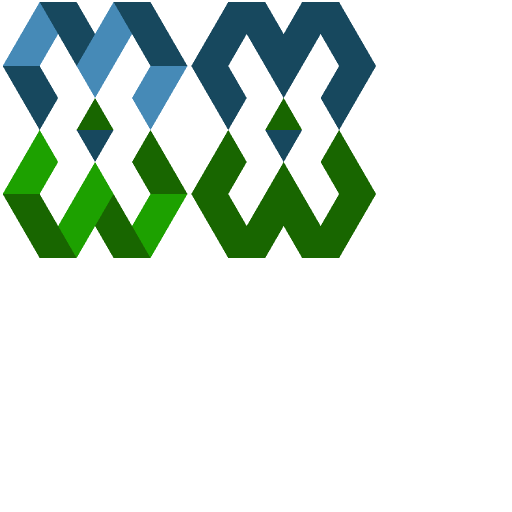
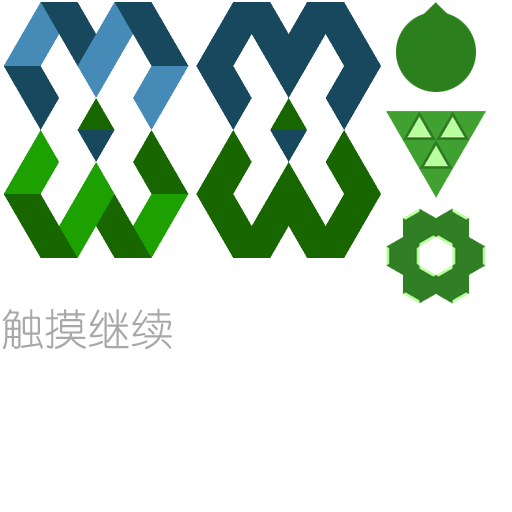
Tween 事件处理。(Deal with egret.Tween events.)

diff --git a/bin-debug/src/GameApp.js b/bin-debug/src/GameApp.js
@@ -37,21 +37,26 @@ var GameApp = (function (_super) {
         this.addEventListener(egret.Event.ADDED_TO_STAGE, this.onAddToStage, this);
     }
     GameApp.prototype.onAddToStage = function (event) {
-        //设置加载进度界面
+        // 设置加载进度界面
+        // Setup loading interface
         this.loadingView = new LoadingUI();
         this.stage.addChild(this.loadingView);
+        this.touchEnabled = true;
 
         // 取得 Stage 尺寸
+        // Get Stage sizes
         this.stageW = this.stage.stageWidth;
         this.stageH = this.stage.stageHeight;
 
-        //初始化Resource资源加载库
+        // 初始化 Resource 资源加载库
+        // Initialize Resource library
         RES.addEventListener(RES.ResourceEvent.CONFIG_COMPLETE, this.onConfigComplete, this);
         RES.loadConfig("resource/resource.json", "resource/");
     };
 
     /**
-    * 配置文件加载完成,开始预加载preload资源组。
+    * 配置文件加载完成,开始预加载 preload 资源组
+    * Configuration loaded, start loading preload resource group
     */
     GameApp.prototype.onConfigComplete = function (event) {
         RES.removeEventListener(RES.ResourceEvent.CONFIG_COMPLETE, this.onConfigComplete, this);
@@ -61,7 +66,8 @@ var GameApp = (function (_super) {
     };
 
     /**
-    * preload资源组加载完成
+    * preload 资源组加载完成
+    * preload resource group loaded
     */
     GameApp.prototype.onResourceLoadComplete = function (event) {
         if (event.groupName == "preload") {
@@ -73,7 +79,8 @@ var GameApp = (function (_super) {
     };
 
     /**
-    * preload资源组加载进度
+    * preload 资源组加载进度
+    * preload resource group loading progress
     */
     GameApp.prototype.onResourceProgress = function (event) {
         if (event.groupName == "preload") {
@@ -83,30 +90,60 @@ var GameApp = (function (_super) {
 
     /**
     * 创建游戏场景
+    * Create game scene
     */
     GameApp.prototype.createGameScene = function () {
         var sheet = RES.getRes("gameSheet");
 
-        var darkLogo = new egret.Bitmap();
-        darkLogo.texture = sheet.getTexture("logoDark");
-        darkLogo.alpha = 0;
-        this.centerObject(darkLogo);
-        this.addChild(darkLogo);
+        // 添加 Logo 的两个不同状态（暗底和正常的）
+        // Add two status files of logo (dark & normal)
+        this.darkLogo = new egret.Bitmap();
+        this.darkLogo.texture = sheet.getTexture("logoDark");
+        this.darkLogo.alpha = 0;
+        this.centerObject(this.darkLogo);
+        this.addChild(this.darkLogo);
 
-        var normalLogo = new egret.Bitmap();
-        normalLogo.texture = sheet.getTexture("logoNormal");
-        normalLogo.alpha = 0;
-        this.centerObject(normalLogo);
-        this.addChild(normalLogo);
+        this.normalLogo = new egret.Bitmap();
+        this.normalLogo.texture = sheet.getTexture("logoNormal");
+        this.normalLogo.alpha = 0;
+        this.centerObject(this.normalLogo);
+        this.addChild(this.normalLogo);
 
-        // Logo 动画
-        var twDark = egret.Tween.get(darkLogo);
-        twDark.to({ "alpha": 1 }, 1200);
-        twDark.wait(200);
-        twDark.call(function () {
-            var twNormal = egret.Tween.get(normalLogo);
-            twNormal.to({ "alpha": 1 }, 1500);
-        });
+        this.touchSign = new egret.Bitmap();
+        this.touchSign.texture = sheet.getTexture("touchStart");
+        this.touchSign.alpha = 0;
+        this.centerObject(this.touchSign);
+        this.touchSign.y = this.stageH - 150;
+        this.addChild(this.touchSign);
+
+        egret.Tween.get(this.darkLogo).to({ "alpha": 1 }, 1200).wait(200).call(this.showLogo, this);
+    };
+
+    /**
+    * 显示 logo
+    * Show logo
+    */
+    GameApp.prototype.showLogo = function () {
+        egret.Tween.get(this.normalLogo).to({ "alpha": 1 }, 1200).wait(200);
+        egret.Tween.get(this.touchSign).to({ "alpha": 1 }, 1500).call(this.waitingForTouch, this);
+    };
+
+    /**
+    * 触摸事件处理
+    * Handle touch event
+    */
+    GameApp.prototype.waitingForTouch = function () {
+        egret.Tween.removeAllTweens();
+        this.removeChild(this.darkLogo);
+        this.addEventListener(egret.TouchEvent.TOUCH_BEGIN, this.onScreenTouched, this);
+    };
+
+    GameApp.prototype.onScreenTouched = function (e) {
+        this.removeEventListener(egret.TouchEvent.TOUCH_BEGIN, this.onScreenTouched, this);
+
+        this.mainGame = new MainGame(this.stageW, this.stageH);
+        this.addChild(this.mainGame);
+        this.mainGame.test();
     };
 
     GameApp.prototype.centerObject = function (obj) {
@@ -116,7 +153,9 @@ var GameApp = (function (_super) {
     };
 
     /**
-    * 根据name关键字创建一个Bitmap对象。name属性请参考resources/resource.json配置文件的内容。
+    * 根据 name 关键字创建一个 Bitmap 对象。name 属性请参考 resources/resource.json 配置文件的内容
+    * Create a Bitmap object according to the keyword 'name'.
+    * The name property is defined in configuration file: resources/resource.json
     */
     GameApp.prototype.createBitmapByName = function (name) {
         var result = new egret.Bitmap();

diff --git a/src/GameApp.ts b/src/GameApp.ts
@@ -30,6 +30,10 @@ class GameApp extends egret.DisplayObjectContainer{
     private stageW:number;
     private stageH:number;
 
+    private darkLogo:egret.Bitmap;
+    private normalLogo:egret.Bitmap;
+    private touchSign:egret.Bitmap;
+
     private loadingView:LoadingUI;
 
     public constructor() {
@@ -42,6 +46,7 @@ class GameApp extends egret.DisplayObjectContainer{
         // Setup loading interface
         this.loadingView  = new LoadingUI();
         this.stage.addChild(this.loadingView);
+        this.touchEnabled = true;
 
         // 取得 Stage 尺寸
         // Get Stage sizes
@@ -53,6 +58,7 @@ class GameApp extends egret.DisplayObjectContainer{
         RES.addEventListener(RES.ResourceEvent.CONFIG_COMPLETE,this.onConfigComplete,this);
         RES.loadConfig("resource/resource.json","resource/");
     }
+
     /**
      * 配置文件加载完成,开始预加载 preload 资源组
      * Configuration loaded, start loading preload resource group
@@ -63,6 +69,7 @@ class GameApp extends egret.DisplayObjectContainer{
         RES.addEventListener(RES.ResourceEvent.GROUP_PROGRESS,this.onResourceProgress,this);
         RES.loadGroup("preload");
     }
+
     /**
      * preload 资源组加载完成
      * preload resource group loaded
@@ -75,6 +82,7 @@ class GameApp extends egret.DisplayObjectContainer{
             this.createGameScene();
         }
     }
+
     /**
      * preload 资源组加载进度
      * preload resource group loading progress
@@ -85,7 +93,6 @@ class GameApp extends egret.DisplayObjectContainer{
         }
     }
 
-    private textContainer:egret.Sprite;
     /**
      * 创建游戏场景
      * Create game scene
@@ -95,27 +102,53 @@ class GameApp extends egret.DisplayObjectContainer{
 
         // 添加 Logo 的两个不同状态（暗底和正常的）
         // Add two status files of logo (dark & normal)
-        var darkLogo:egret.Bitmap = new egret.Bitmap();
-        darkLogo.texture = sheet.getTexture("logoDark");
-        darkLogo.alpha = 0;
-        this.centerObject(darkLogo);
-        this.addChild(darkLogo);
+        this.darkLogo = new egret.Bitmap();
+        this.darkLogo.texture = sheet.getTexture("logoDark");
+        this.darkLogo.alpha = 0;
+        this.centerObject(this.darkLogo);
+        this.addChild(this.darkLogo);
 
-        var normalLogo:egret.Bitmap = new egret.Bitmap();
-        normalLogo.texture = sheet.getTexture("logoNormal");
-        normalLogo.alpha = 0;
-        this.centerObject(normalLogo);
-        this.addChild(normalLogo);
+        this.normalLogo = new egret.Bitmap();
+        this.normalLogo.texture = sheet.getTexture("logoNormal");
+        this.normalLogo.alpha = 0;
+        this.centerObject(this.normalLogo);
+        this.addChild(this.normalLogo);
 
-        // Logo 动画（Fade）
-        // Logo animation (Fade)
-        var twDark = egret.Tween.get(darkLogo);
-        twDark.to({"alpha":1}, 1200);
-        twDark.wait(200);
-        twDark.call(function(){
-            var twNormal = egret.Tween.get(normalLogo);
-            twNormal.to({"alpha":1}, 1500);
-        });
+        this.touchSign = new egret.Bitmap();
+        this.touchSign.texture = sheet.getTexture("touchStart");
+        this.touchSign.alpha = 0;
+        this.centerObject(this.touchSign);
+        this.touchSign.y = this.stageH - 150;
+        this.addChild(this.touchSign);
+
+        egret.Tween.get(this.darkLogo).to({"alpha":1}, 1200).wait(200).call(this.showLogo, this);
+    }
+
+    /**
+     * 显示 logo
+     * Show logo
+     */
+    private showLogo():void {
+        egret.Tween.get(this.normalLogo).to({"alpha":1}, 1200).wait(200);
+        egret.Tween.get(this.touchSign).to({"alpha":1}, 1500).call(this.waitingForTouch, this);
+    }
+
+    /**
+     * 触摸事件处理
+     * Handle touch event
+     */
+    private waitingForTouch():void {
+        egret.Tween.removeAllTweens();
+        this.removeChild(this.darkLogo);
+        this.addEventListener(egret.TouchEvent.TOUCH_BEGIN, this.onScreenTouched, this);
+    }
+
+    private onScreenTouched(e:egret.TouchEvent):void {
+        this.removeEventListener(egret.TouchEvent.TOUCH_BEGIN, this.onScreenTouched, this);
+
+        var mainGame:MainGame = new MainGame(this.stageW, this.stageH);
+        this.addChild(mainGame);
+        mainGame.test();
     }
 
     private centerObject(obj:egret.DisplayObject):void {
@@ -123,6 +156,7 @@ class GameApp extends egret.DisplayObjectContainer{
         obj.x = this.stageW / 2;
         obj.y = this.stageH / 2;
     }
+
     /**
      * 根据 name 关键字创建一个 Bitmap 对象。name 属性请参考 resources/resource.json 配置文件的内容
      * Create a Bitmap object according to the keyword 'name'.

diff --git a/bin-debug/src/MainGame.js b/bin-debug/src/MainGame.js
@@ -1,0 +1,22 @@
+var __extends = this.__extends || function (d, b) {
+    for (var p in b) if (b.hasOwnProperty(p)) d[p] = b[p];
+    function __() { this.constructor = d; }
+    __.prototype = b.prototype;
+    d.prototype = new __();
+};
+/**
+* Created by motionwalk on 14-8-2.
+*/
+var MainGame = (function (_super) {
+    __extends(MainGame, _super);
+    function MainGame(w, h) {
+        _super.call(this);
+        console.log('Main Game');
+        this.stageW = w;
+        this.stageH = h;
+    }
+    MainGame.prototype.test = function () {
+        console.log(this.stageW, this.stageH);
+    };
+    return MainGame;
+})(egret.DisplayObjectContainer);

diff --git a/src/MainGame.ts b/src/MainGame.ts
@@ -1,0 +1,19 @@
+/**
+ * Created by motionwalk on 14-8-2.
+ */
+class MainGame extends egret.DisplayObjectContainer {
+
+    private stageW:number;
+    private stageH:number;
+
+    public constructor(w:number, h:number) {
+        super();
+        console.log('Main Game');
+        this.stageW = w;
+        this.stageH = h;
+    }
+
+    public test():void {
+        console.log(this.stageW, this.stageH);
+    }
+}

diff --git a/launcher/index.html b/launcher/index.html
@@ -2,7 +2,7 @@
 <html>
 <head>
     <meta charset="utf-8">
-    <title>HelloWorld</title>
+    <title>OneTwoOneTwo</title>
     <meta name="viewport"
           content="width=device-width,initial-scale=1, minimum-scale=1, maximum-scale=1, user-scalable=no,target-densitydpi=device-dpi"/>
     <meta name="apple-mobile-web-app-capable" content="yes"/>

diff --git a/bin-debug/src/game_file_list.js b/bin-debug/src/game_file_list.js
@@ -1,4 +1,5 @@
 var game_file_list = [
     "LoadingUI.js",
+    "MainGame.js",
     "GameApp.js"
 ];
